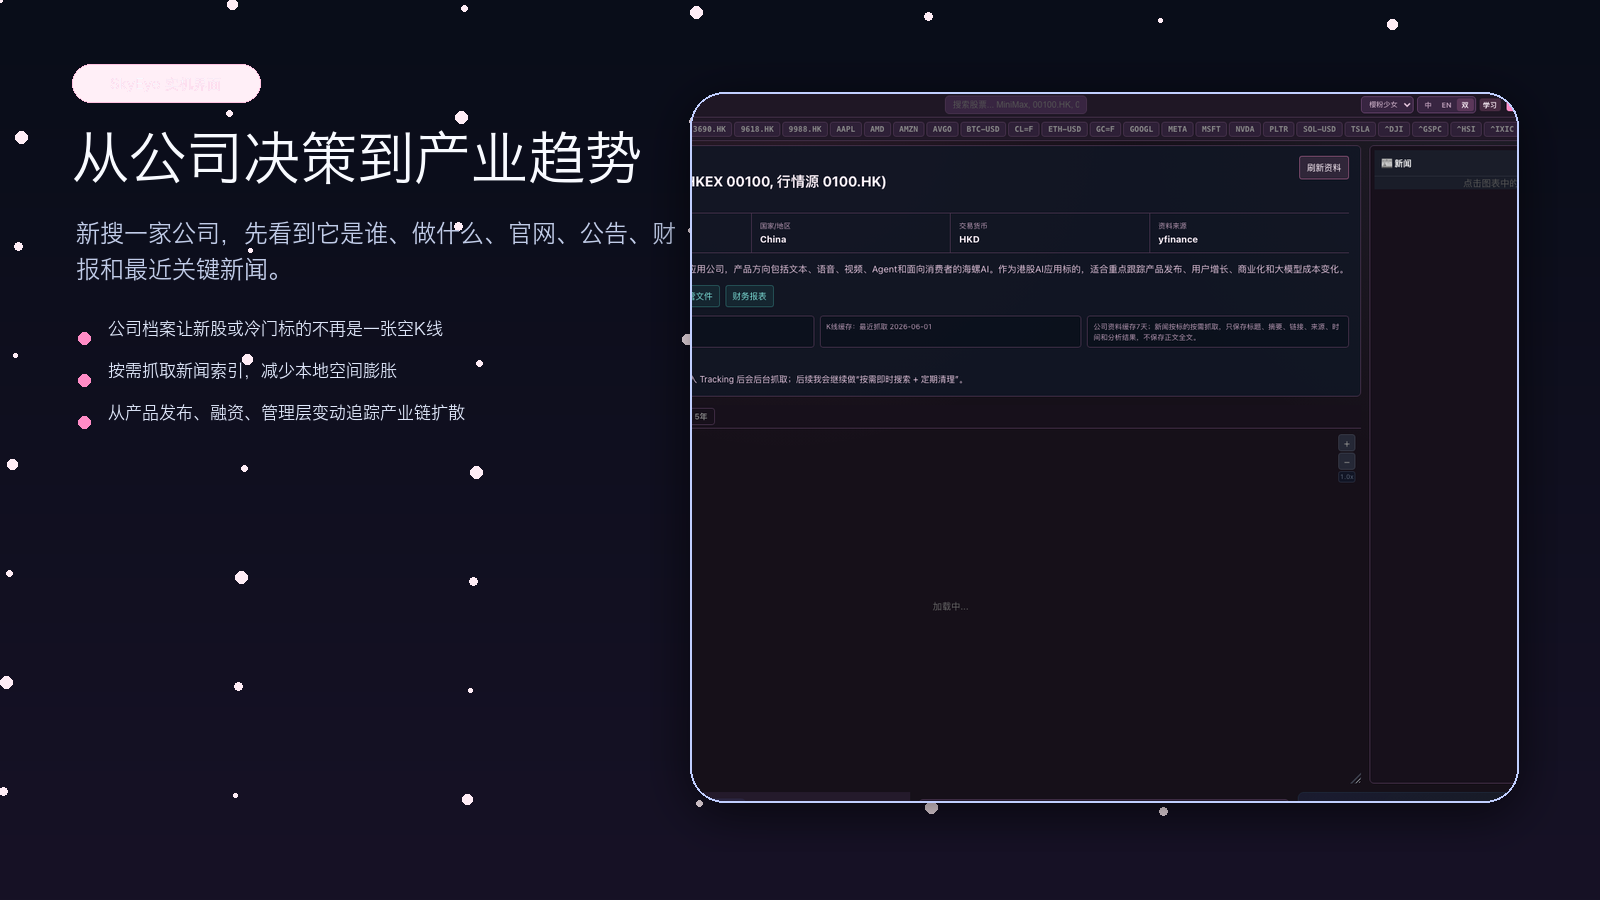
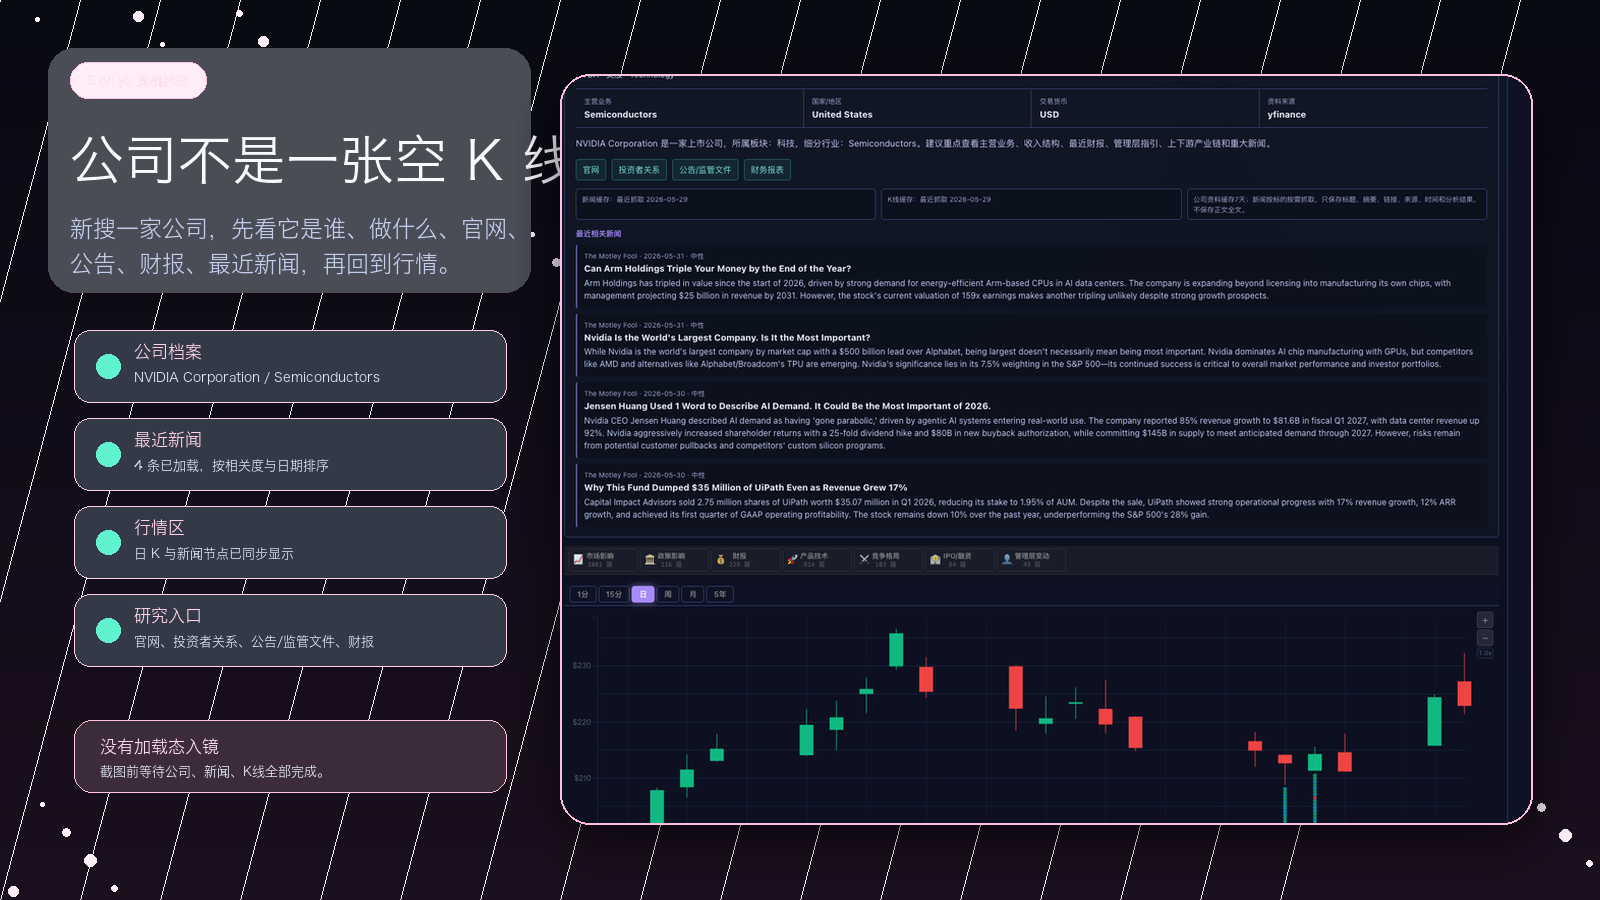
Refresh product showcase images

diff --git a/scripts/generate_real_showcase.py b/scripts/generate_real_showcase.py
@@ -19,17 +19,23 @@ def font(size: int, bold: bool = False):
 
 
 F = {
-    "hero": font(62, True),
-    "h1": font(44, True),
+    "hero": font(58, True),
+    "h1": font(42, True),
     "h2": font(30, True),
-    "body": font(24),
+    "body": font(23),
     "small": font(17),
-    "tiny": font(14),
+    "tiny": font(13),
+    "mono": font(16, True),
 }
 
 
+def text_width(draw: ImageDraw.ImageDraw, text: str, fnt) -> int:
+    return int(draw.textlength(text, font=fnt))
+
+
 def wrap(draw: ImageDraw.ImageDraw, text: str, max_width: int, fnt) -> list[str]:
-    lines, current = [], ""
+    lines: list[str] = []
+    current = ""
     for ch in text:
         test = current + ch
         if draw.textlength(test, font=fnt) <= max_width:
@@ -43,7 +49,7 @@ def wrap(draw: ImageDraw.ImageDraw, text: str, max_width: int, fnt) -> list[str]
     return lines
 
 
-def gradient(top=(9, 13, 25), bottom=(23, 18, 38)):
+def gradient(top=(6, 12, 22), bottom=(23, 16, 35)):
     img = Image.new("RGB", (W, H), top)
     px = img.load()
     for y in range(H):
@@ -54,112 +60,259 @@ def gradient(top=(9, 13, 25), bottom=(23, 18, 38)):
     return img.convert("RGBA")
 
 
-def rounded_mask(size, radius):
+def add_texture(draw: ImageDraw.ImageDraw, accent=(122, 224, 255)):
+    for i in range(70):
+        x = (i * 197 + 37) % W
+        y = (i * 109 + 19) % H
+        r = 2 + (i % 5)
+        col = accent if i % 3 else (255, 132, 196)
+        draw.ellipse((x - r, y - r, x + r, y + r), fill=(*col, 32))
+    for x in range(0, W, 80):
+        draw.line((x, 0, x - 240, H), fill=(95, 125, 190, 10), width=1)
+
+
+def round_mask(size: tuple[int, int], radius: int):
     mask = Image.new("L", size, 0)
     ImageDraw.Draw(mask).rounded_rectangle((0, 0, size[0], size[1]), radius=radius, fill=255)
     return mask
 
 
-def paste_screen(canvas, path, box, radius=34):
-    shot = Image.open(path).convert("RGBA")
-    target_w, target_h = box[2] - box[0], box[3] - box[1]
-    shot_ratio = shot.width / shot.height
-    target_ratio = target_w / target_h
-    if shot_ratio > target_ratio:
-        new_h = target_h
-        new_w = int(new_h * shot_ratio)
+def crop_cover(img: Image.Image, crop_box: tuple[int, int, int, int], target: tuple[int, int]):
+    src = img.crop(crop_box)
+    tw, th = target
+    sr = src.width / src.height
+    tr = tw / th
+    if sr > tr:
+        nh = th
+        nw = int(nh * sr)
     else:
-        new_w = target_w
-        new_h = int(new_w / shot_ratio)
-    shot = shot.resize((new_w, new_h), Image.Resampling.LANCZOS)
-    left = (new_w - target_w) // 2
-    top = (new_h - target_h) // 2
-    shot = shot.crop((left, top, left + target_w, top + target_h))
-    shadow = Image.new("RGBA", (target_w + 80, target_h + 80), (0, 0, 0, 0))
-    sd = ImageDraw.Draw(shadow)
-    sd.rounded_rectangle((40, 40, target_w + 40, target_h + 40), radius=radius, fill=(0, 0, 0, 155))
+        nw = tw
+        nh = int(nw / sr)
+    src = src.resize((nw, nh), Image.Resampling.LANCZOS)
+    left = max(0, (nw - tw) // 2)
+    top = max(0, (nh - th) // 2)
+    return src.crop((left, top, left + tw, top + th)).convert("RGBA")
+
+
+def paste_panel(canvas: Image.Image, img: Image.Image, box: tuple[int, int, int, int], radius=28, outline=(105, 135, 255, 130)):
+    x1, y1, x2, y2 = box
+    tw, th = x2 - x1, y2 - y1
+    shadow = Image.new("RGBA", (tw + 92, th + 92), (0, 0, 0, 0))
+    sd = ImageDraw.Draw(shadow, "RGBA")
+    sd.rounded_rectangle((46, 46, tw + 46, th + 46), radius=radius, fill=(0, 0, 0, 170))
     shadow = shadow.filter(ImageFilter.GaussianBlur(24))
-    canvas.alpha_composite(shadow, (box[0] - 40, box[1] - 30))
-    mask = rounded_mask((target_w, target_h), radius)
-    clipped = Image.new("RGBA", (target_w, target_h), (0, 0, 0, 0))
-    clipped.paste(shot, (0, 0), mask)
-    canvas.alpha_composite(clipped, (box[0], box[1]))
-    d = ImageDraw.Draw(canvas, "RGBA")
-    d.rounded_rectangle(box, radius=radius, outline=(125, 153, 255, 120), width=2)
+    canvas.alpha_composite(shadow, (x1 - 46, y1 - 34))
+
+    mask = round_mask((tw, th), radius)
+    clipped = Image.new("RGBA", (tw, th), (0, 0, 0, 0))
+    clipped.paste(img.resize((tw, th), Image.Resampling.LANCZOS), (0, 0), mask)
+    canvas.alpha_composite(clipped, (x1, y1))
+    ImageDraw.Draw(canvas, "RGBA").rounded_rectangle(box, radius=radius, outline=outline, width=2)
 
 
-def label(draw, xy, text, color=(132, 225, 255)):
-    draw.rounded_rectangle((xy[0], xy[1], xy[0] + 188, xy[1] + 38), radius=19, fill=(*color, 34), outline=(*color, 135), width=1)
-    draw.text((xy[0] + 94, xy[1] + 19), text, font=F["tiny"], fill=(248, 250, 255), anchor="mm")
+def pill(draw: ImageDraw.ImageDraw, xy: tuple[int, int], text: str, fill, outline=None, fnt=None, pad=12):
+    fnt = fnt or F["tiny"]
+    x, y = xy
+    w = text_width(draw, text, fnt) + pad * 2
+    h = 30
+    draw.rounded_rectangle((x, y, x + w, y + h), radius=15, fill=fill, outline=outline or fill, width=1)
+    draw.text((x + pad, y + 8), text, font=fnt, fill=(244, 249, 255))
+    return x + w + 8
 
 
-def make_card(filename, shot, title, subtitle, bullets, accent=(132, 225, 255), layout="right"):
-    img = gradient()
+def label(draw: ImageDraw.ImageDraw, xy, text, accent):
+    x, y = xy
+    w = text_width(draw, text, F["tiny"]) + 34
+    draw.rounded_rectangle((x, y, x + w, y + 36), radius=18, fill=(*accent, 34), outline=(*accent, 130), width=1)
+    draw.text((x + w / 2, y + 18), text, font=F["tiny"], fill=(247, 250, 255), anchor="mm")
+
+
+def draw_headline(draw: ImageDraw.ImageDraw, title: str, subtitle: str, accent, x=70, y=54, max_width=650):
+    label(draw, (x, y), "SkyEye 实机界面", accent)
+    draw.text((x, y + 70), title, font=F["hero"], fill=(248, 250, 255))
+    ty = y + 154
+    for line in wrap(draw, subtitle, max_width, F["body"])[:3]:
+        draw.text((x, ty), line, font=F["body"], fill=(194, 205, 234))
+        ty += 35
+    return ty
+
+
+def make_kline_news():
+    accent = (90, 218, 255)
+    img = gradient((4, 10, 20), (18, 15, 32))
     d = ImageDraw.Draw(img, "RGBA")
-    for i in range(54):
-        x = (i * 229) % W
-        y = (i * 113) % H
-        r = 2 + (i % 5)
-        col = accent if i % 2 else (255, 140, 198)
-        d.ellipse((x - r, y - r, x + r, y + r), fill=(*col, 38))
-    label(d, (72, 64), "SkyEye 实机界面", accent)
-    d.text((72, 128), title, font=F["hero"], fill=(248, 250, 255))
-    y = 220
-    for line in wrap(d, subtitle, 600, F["body"])[:3]:
-        d.text((76, y), line, font=F["body"], fill=(193, 204, 232))
-        y += 36
-    y += 28
-    for item in bullets:
-        d.ellipse((78, y + 12, 90, y + 24), fill=accent)
-        for line in wrap(d, item, 540, F["small"])[:2]:
-            d.text((108, y), line, font=F["small"], fill=(223, 231, 250))
-            y += 28
-        y += 14
-    if layout == "right":
-        paste_screen(img, SHOTS / shot, (690, 92, 1518, 802))
-    else:
-        paste_screen(img, SHOTS / shot, (560, 280, 1518, 828))
-    img.save(MEDIA / filename)
+    add_texture(d, accent)
+
+    shot = Image.open(SHOTS / "real-nvda-company-loaded.png").convert("RGBA")
+    chart = crop_cover(shot, (0, 820, 1390, 1348), (940, 560))
+    paste_panel(img, chart, (58, 212, 1018, 782), radius=24, outline=(89, 148, 255, 150))
+
+    d.text((70, 58), "新闻与舆情解释 K 线", font=F["hero"], fill=(250, 252, 255))
+    d.text((72, 132), "放大一个异动节点，右侧自动拉出趋势相关新闻和一键分析结论。", font=F["body"], fill=(195, 207, 236))
+
+    node = (760, 568)
+    lens_center = (720, 378)
+    r = 118
+    d.line((node[0], node[1], lens_center[0] + 76, lens_center[1] + 76), fill=(*accent, 180), width=3)
+    d.ellipse((node[0] - 10, node[1] - 10, node[0] + 10, node[1] + 10), fill=(255, 82, 105), outline=(255, 255, 255, 220), width=2)
+
+    zoom_src = chart.crop((690, 250, 850, 410)).resize((r * 2, r * 2), Image.Resampling.LANCZOS)
+    lens_mask = Image.new("L", (r * 2, r * 2), 0)
+    ImageDraw.Draw(lens_mask).ellipse((0, 0, r * 2 - 1, r * 2 - 1), fill=255)
+    lens_shadow = Image.new("RGBA", (r * 2 + 40, r * 2 + 40), (0, 0, 0, 0))
+    ImageDraw.Draw(lens_shadow).ellipse((20, 20, r * 2 + 20, r * 2 + 20), fill=(0, 0, 0, 180))
+    img.alpha_composite(lens_shadow.filter(ImageFilter.GaussianBlur(16)), (lens_center[0] - r - 20, lens_center[1] - r - 12))
+    lens = Image.new("RGBA", (r * 2, r * 2), (0, 0, 0, 0))
+    lens.paste(zoom_src, (0, 0), lens_mask)
+    img.alpha_composite(lens, (lens_center[0] - r, lens_center[1] - r))
+    d.ellipse((lens_center[0] - r, lens_center[1] - r, lens_center[0] + r, lens_center[1] + r), outline=(155, 233, 255, 230), width=5)
+    d.line((lens_center[0] + 84, lens_center[1] + 84, lens_center[0] + 158, lens_center[1] + 158), fill=(155, 233, 255, 220), width=9)
+
+    panel = (1060, 130, 1528, 780)
+    d.rounded_rectangle(panel, radius=24, fill=(11, 18, 34, 235), outline=(90, 160, 255, 120), width=2)
+    d.text((1088, 162), "节点相关新闻", font=F["h2"], fill=(250, 252, 255))
+    d.text((1088, 206), "NVDA · 2026-06-02 · 价格反应 +4.8%", font=F["small"], fill=(124, 234, 204))
+
+    y = 252
+    news_items = [
+        ("AI 需求", "Jensen Huang 称 AI 需求仍然强劲，数据中心收入继续超预期。", "+ 舆情强度 82"),
+        ("产业链", "云厂商资本开支上修，HBM 与 GPU 供应链关注度同步升温。", "+ 产业链相关 76"),
+        ("风险", "估值已经拥挤，若财报指引低于预期，波动可能放大。", "- 拥挤度扣分 18"),
+    ]
+    for tag, body, score in news_items:
+        d.rounded_rectangle((1088, y, 1500, y + 96), radius=14, fill=(21, 29, 50, 220), outline=(63, 87, 135, 130), width=1)
+        d.text((1108, y + 14), tag, font=F["small"], fill=(134, 226, 255))
+        for line in wrap(d, body, 296, F["tiny"])[:2]:
+            d.text((1108, y + 42), line, font=F["tiny"], fill=(222, 231, 248))
+            y += 19
+        d.text((1370, y + 4), score, font=F["tiny"], fill=(100, 245, 202))
+        y += 62
+
+    d.rounded_rectangle((1088, 612, 1500, 704), radius=16, fill=(8, 28, 36, 235), outline=(93, 236, 200, 150), width=1)
+    d.text((1110, 632), "一键分析输出", font=F["small"], fill=(111, 244, 210))
+    analysis = "短线价格反应与 AI/HBM 新闻同向；适合放入观察池，等待回踩支撑或新财报确认。"
+    ay = 660
+    for line in wrap(d, analysis, 350, F["tiny"])[:2]:
+        d.text((1110, ay), line, font=F["tiny"], fill=(236, 246, 255))
+        ay += 20
+    d.rounded_rectangle((1260, 724, 1500, 760), radius=18, fill=(115, 88, 255, 255))
+    d.text((1380, 742), "生成分析报告", font=F["small"], fill=(255, 255, 255), anchor="mm")
+
+    img.save(MEDIA / "real-showcase-01-news-kline.png")
+
+
+def make_news_dashboard():
+    accent = (168, 132, 255)
+    img = gradient((7, 12, 24), (21, 16, 36))
+    d = ImageDraw.Draw(img, "RGBA")
+    add_texture(d, accent)
+
+    shot = Image.open(SHOTS / "real-overview-ready.png").convert("RGBA")
+    screen = crop_cover(shot, (0, 0, shot.width, shot.height), (1020, 690))
+    paste_panel(img, screen, (500, 74, 1530, 774), radius=28, outline=(141, 128, 255, 135))
+
+    draw_headline(
+        d,
+        "综合新闻分析看板",
+        "把宏观、产业链、IPO、政策、财报和地缘事件合成一张可行动的热点地图。",
+        accent,
+        x=70,
+        y=58,
+        max_width=390,
+    )
+
+    d.rounded_rectangle((70, 314, 458, 764), radius=24, fill=(12, 18, 34, 225), outline=(120, 105, 255, 110), width=1)
+    d.text((98, 342), "今日热点排序", font=F["h2"], fill=(250, 252, 255))
+    ranks = [
+        ("AI算力 / HBM", 93, (99, 240, 213)),
+        ("宏观流动性", 83, (125, 190, 255)),
+        ("港股打新", 70, (255, 202, 88)),
+        ("机器人/自动驾驶", 70, (255, 142, 198)),
+        ("加密基础设施", 63, (169, 139, 250)),
+    ]
+    y = 394
+    for name, score, col in ranks:
+        d.text((98, y), name, font=F["small"], fill=(232, 240, 255))
+        d.rounded_rectangle((98, y + 28, 374, y + 40), radius=6, fill=(28, 36, 62, 255))
+        d.rounded_rectangle((98, y + 28, 98 + int(276 * score / 100), y + 40), radius=6, fill=col)
+        d.text((392, y + 12), str(score), font=F["h2"], fill=col, anchor="mm")
+        y += 66
+
+    d.text((98, 706), "词云", font=F["small"], fill=(177, 188, 218))
+    x = 150
+    y = 696
+    words = [
+        ("AI", 24, (98, 239, 215)),
+        ("IPO", 18, (255, 202, 88)),
+        ("监管政策", 14, (125, 190, 255)),
+        ("流动性", 13, (169, 139, 250)),
+        ("HBM", 16, (255, 142, 198)),
+        ("地缘风险", 12, (255, 100, 130)),
+    ]
+    for word, size, col in words:
+        fnt = font(size, True)
+        w = text_width(d, word, fnt) + 24
+        if x + w > 438:
+            x = 98
+            y += 36
+        d.rounded_rectangle((x, y, x + w, y + 30), radius=15, fill=(*col, 45), outline=(*col, 125), width=1)
+        d.text((x + 12, y + 5), word, font=fnt, fill=(245, 248, 255))
+        x += w + 8
+
+    d.rounded_rectangle((592, 794, 1438, 844), radius=24, fill=(9, 17, 31, 230), outline=(115, 224, 255, 120), width=1)
+    d.text((624, 809), "强信号：AI算力、宏观流动性、港股打新", font=F["small"], fill=(115, 238, 218))
+    d.text((968, 809), "观察信号：机器人、加密基础设施、地缘冲突", font=F["small"], fill=(213, 222, 248))
+
+    img.save(MEDIA / "real-showcase-02-radar-dashboard.png")
+
+
+def make_company_loaded():
+    accent = (255, 134, 198)
+    img = gradient((8, 10, 20), (28, 15, 31))
+    d = ImageDraw.Draw(img, "RGBA")
+    add_texture(d, accent)
+    d.rounded_rectangle((48, 48, 530, 292), radius=26, fill=(6, 10, 22, 185))
+
+    draw_headline(
+        d,
+        "公司不是一张空 K 线",
+        "新搜一家公司，先看它是谁、做什么、官网、公告、财报、最近新闻，再回到行情。",
+        accent,
+        x=70,
+        y=62,
+        max_width=460,
+    )
+
+    loaded = [
+        ("公司档案", "NVIDIA Corporation / Semiconductors"),
+        ("最近新闻", "4 条已加载，按相关度与日期排序"),
+        ("行情区", "日 K 与新闻节点已同步显示"),
+        ("研究入口", "官网、投资者关系、公告/监管文件、财报"),
+    ]
+    y = 330
+    for title, body in loaded:
+        d.rounded_rectangle((74, y, 506, y + 72), radius=16, fill=(18, 24, 42, 218), outline=(*accent, 95), width=1)
+        d.ellipse((96, y + 24, 120, y + 48), fill=(96, 242, 206))
+        d.text((134, y + 13), title, font=F["small"], fill=(255, 210, 232))
+        d.text((134, y + 40), body, font=F["tiny"], fill=(224, 232, 250))
+        y += 88
+
+    d.rounded_rectangle((74, 720, 506, 792), radius=18, fill=(35, 15, 31, 225), outline=(255, 140, 198, 130), width=1)
+    d.text((100, 738), "没有加载态入镜", font=F["small"], fill=(255, 220, 238))
+    d.text((100, 764), "截图前等待公司、新闻、K线全部完成。", font=F["tiny"], fill=(230, 238, 252))
+
+    shot = Image.open(SHOTS / "real-nvda-company-loaded.png").convert("RGBA")
+    screen = crop_cover(shot, (0, 50, 1410, 1335), (955, 735))
+    paste_panel(img, screen, (560, 74, 1532, 824), radius=30, outline=(255, 136, 198, 135))
+
+    img.save(MEDIA / "real-showcase-03-company-to-macro.png")
 
 
 def main():
-    make_card(
-        "real-showcase-01-news-kline.png",
-        "real-nvda-deep-ready.png",
-        "新闻舆情解释K线",
-        "把公司新闻、舆情分类、价格反应、风险价位放在同一个研究现场。",
-        [
-            "新闻不是孤立列表，而是贴近K线和交易日期",
-            "公司档案、最近新闻、支撑/止损/目标价同步呈现",
-            "适合从“为什么涨跌”开始训练主观交易判断",
-        ],
-        (132, 225, 255),
-    )
-    make_card(
-        "real-showcase-02-radar-dashboard.png",
-        "real-overview-ready.png",
-        "综合新闻分析看板",
-        "从宏观、产业链、IPO、政策、财报和地缘事件里筛出真正值得看的风口。",
-        [
-            "风口雷达把新闻、事件、产业链和催化信号合并",
-            "过滤噪音，只保留强信号和观察信号",
-            "从微观公司事件放大到宏观趋势与资产配置线索",
-        ],
-        (167, 139, 250),
-    )
-    make_card(
-        "real-showcase-03-company-to-macro.png",
-        "real-minimax-deep.png",
-        "从公司决策到产业趋势",
-        "新搜一家公司，先看到它是谁、做什么、官网、公告、财报和最近关键新闻。",
-        [
-            "公司档案让新股或冷门标的不再是一张空K线",
-            "按需抓取新闻索引，减少本地空间膨胀",
-            "从产品发布、融资、管理层变动追踪产业链扩散",
-        ],
-        (255, 140, 198),
-    )
-    print("generated real showcase images")
+    make_kline_news()
+    make_news_dashboard()
+    make_company_loaded()
+    print("generated upgraded real showcase images")
 
 
 if __name__ == "__main__":

diff --git a/docs/media/README.md b/docs/media/README.md
@@ -25,5 +25,6 @@ Generated product-launch visuals for README, GitHub social preview, and Codex de
 ## Raw real UI screenshots
 
 - `screenshots/real-overview-ready.png`
+- `screenshots/real-nvda-company-loaded.png`
 - `screenshots/real-nvda-deep-ready.png`
 - `screenshots/real-minimax-deep.png`